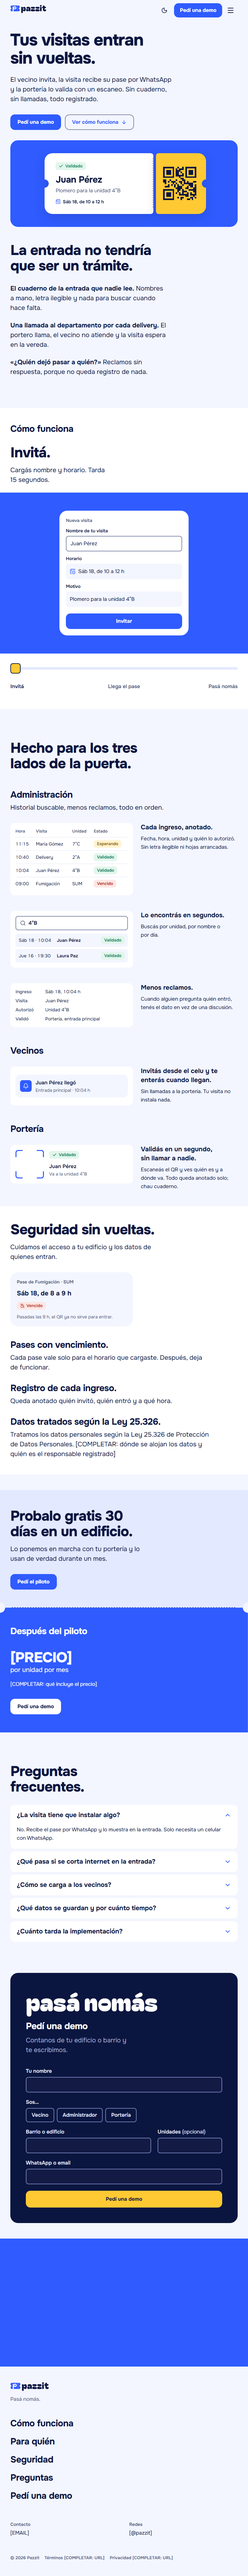
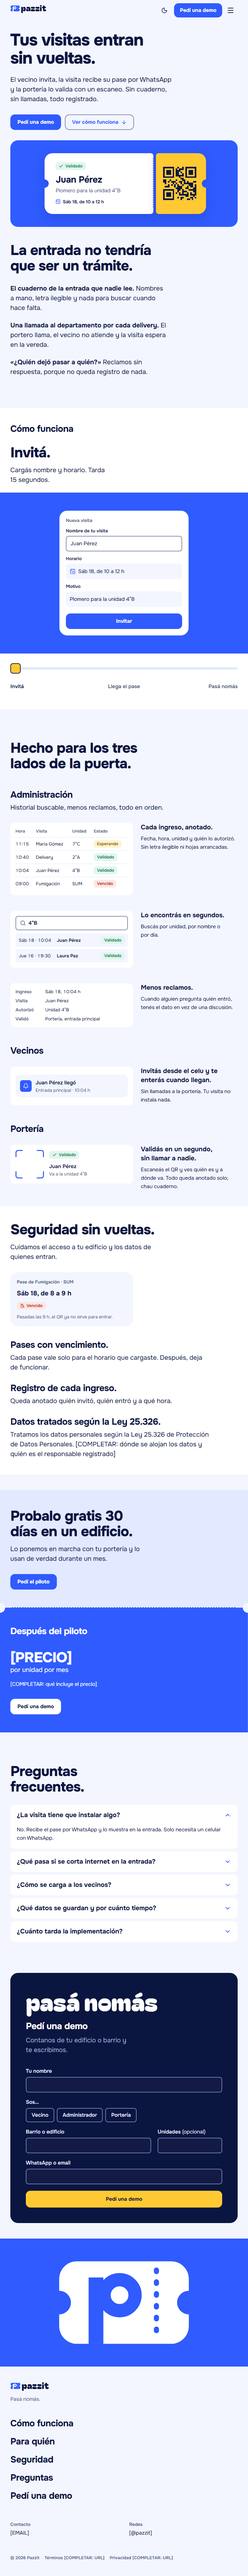
fix: el isotipo del footer carga sin lazy (se ve en capturas)

Changed region(s): [[0.2188, 0.8748, 0.7812, 0.9373]]

diff --git a/components/sections/Footer.tsx b/components/sections/Footer.tsx
@@ -7,7 +7,7 @@ export function Footer() {
   return (
     <footer className="grid lg:grid-cols-2">
       <div className="bg-azul grid place-items-center min-h-[44svh] lg:min-h-[640px] p-10">
-        <img src="/brand/pazzit-mark-blanco.svg" alt="" width={460} height={300} loading="lazy" className="w-[min(64%,420px)] h-auto" />
+        <img src="/brand/pazzit-mark-blanco.svg" alt="" width={460} height={300} className="w-[min(64%,420px)] h-auto" />
       </div>
       <div className="flex flex-col px-4 py-12 md:px-8 lg:px-16 lg:py-20">
         <Logo width={120} />
